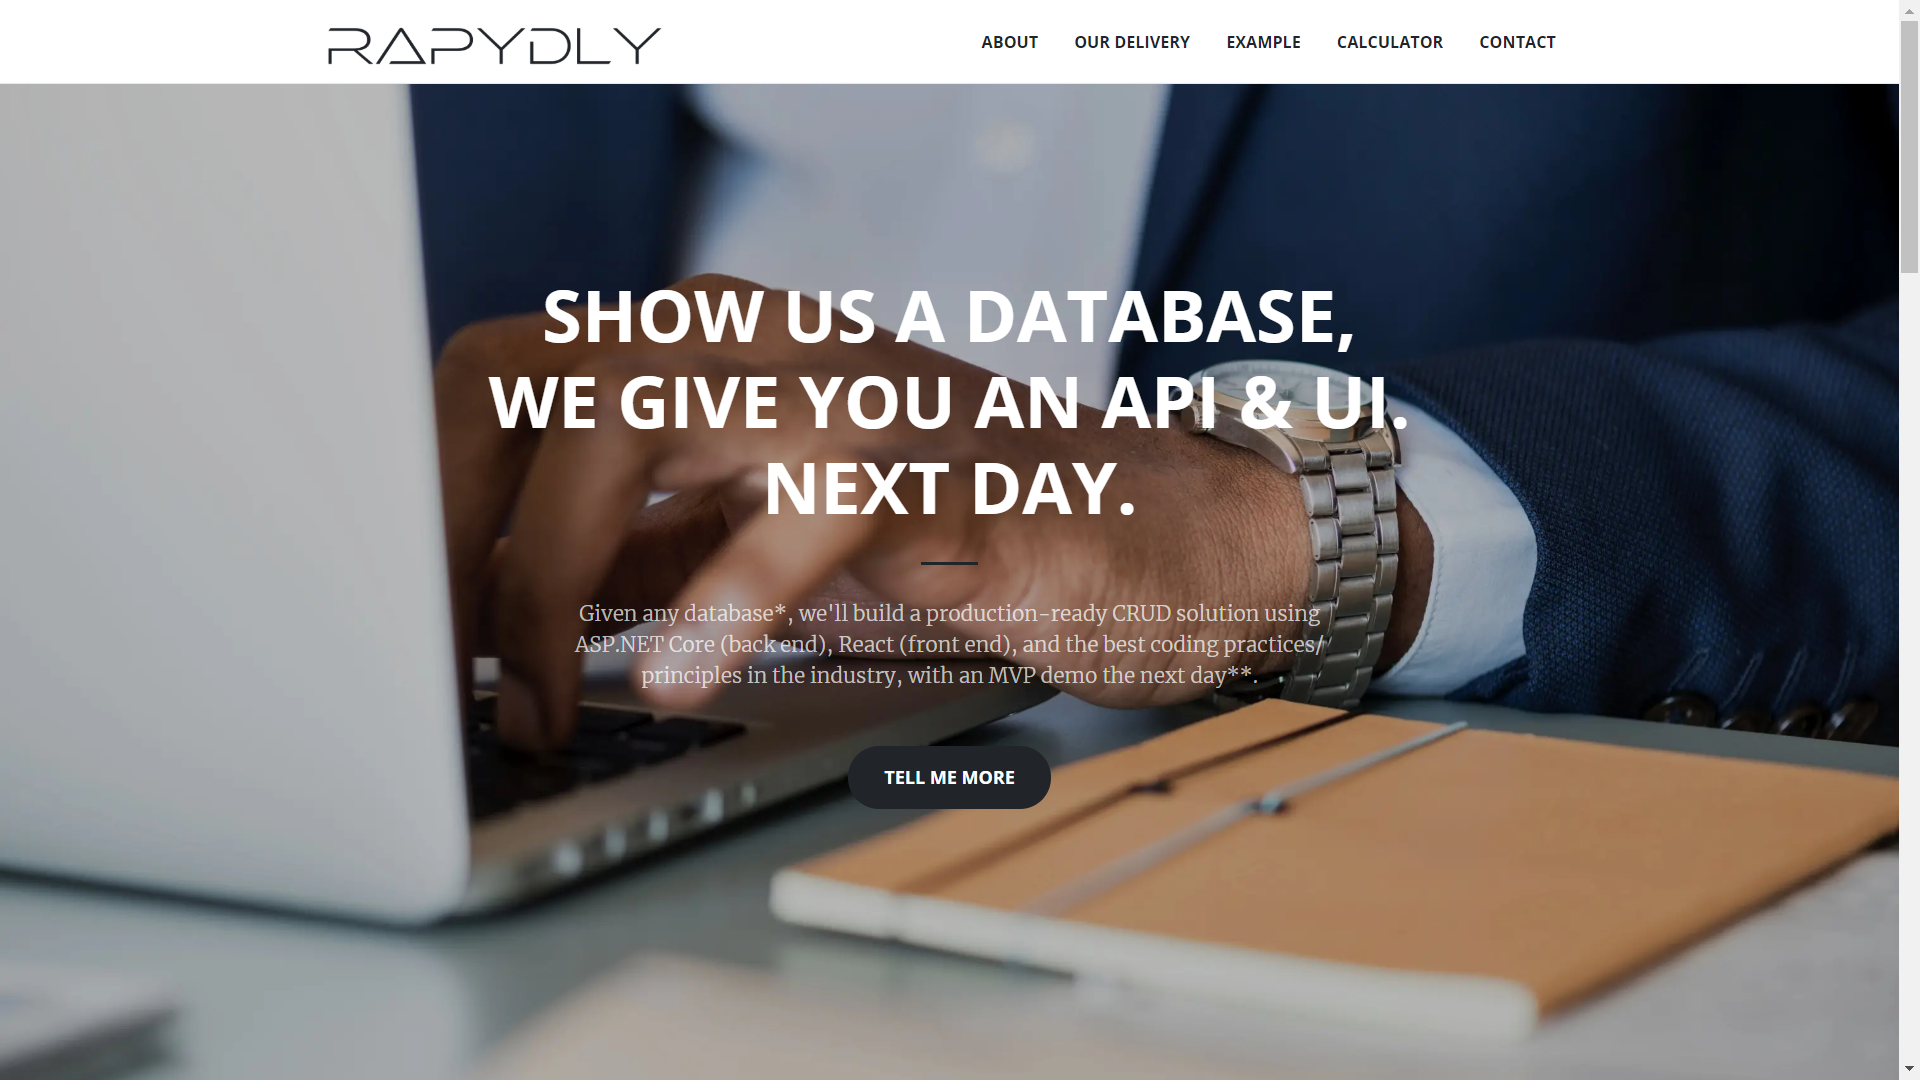
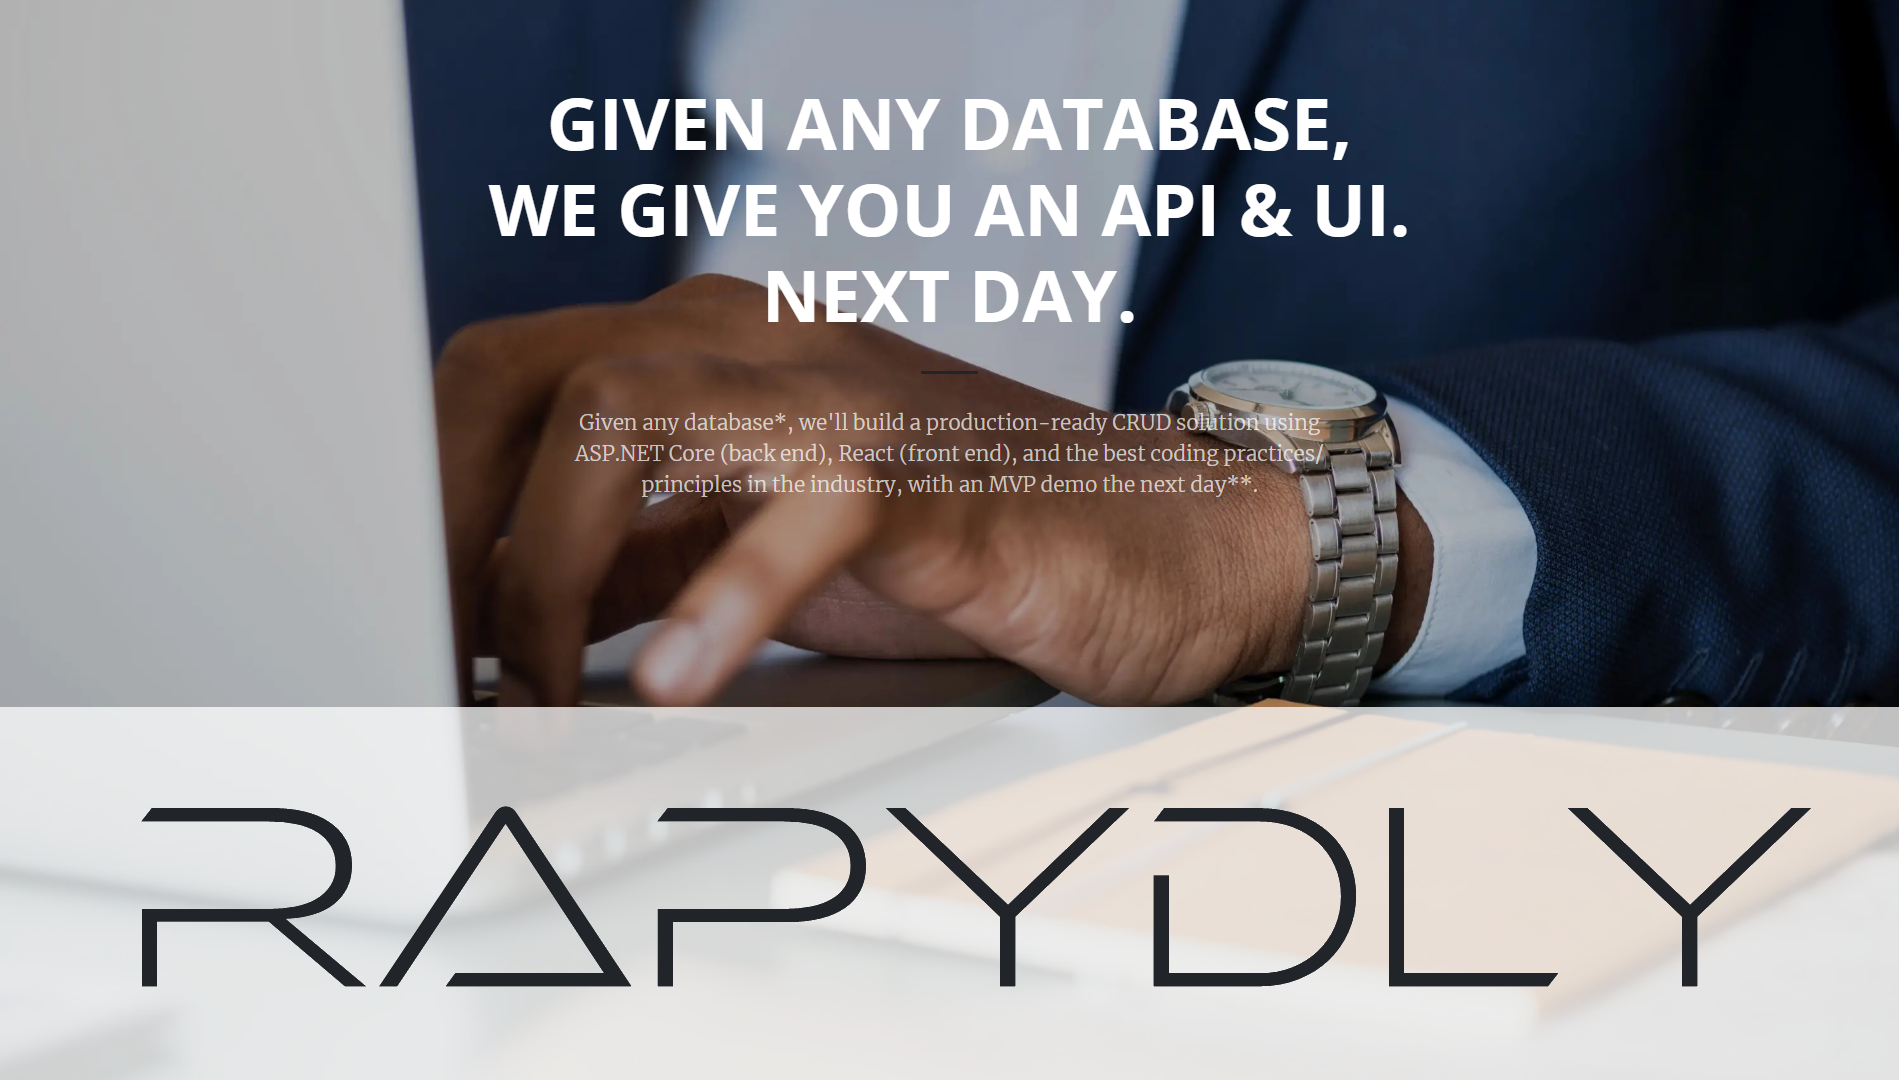
Updated site thumbnail

diff --git a/index.html b/index.html
@@ -25,8 +25,8 @@
 
     <meta property="og:site_name" content="Rapydly"/>
     <meta property="og:title" content="Build software rapidly, with Rapydly. Delivering bespoke, next day MVPs"/>
-    <meta property="og:description" content="We develop custom RESTful APIs and CRUD UIs using .NET (dotnet) Core and REACT JS and in most cases, can demo your product the very next day."/>
-    <meta property="og:image" content="/img/home.png">
+    <meta property="og:description" content="Specialists in developing custom RESTful APIs and CRUD UIs using .NET (dotnet) Core and REACT JS and in most cases, can demo your product the very next day."/>
+    <meta property="og:image" content="img/home.png">
     <meta property="og:url" content="https://rapydly.com/">
     <meta name="description" content="We develop custom RESTful APIs and CRUD UIs using .NET (dotnet) Core and REACT JS and in most cases, can demo your product the very next day.."/>
 
@@ -70,7 +70,7 @@
         <div class="row">
           <div class="col-lg-10 mx-auto">
             <h1 class="text-uppercase">
-              <strong>show us a database,</strong><br>
+              <strong>Given any database,</strong><br>
               <strong>We give you an api & ui.</strong><br>
               <strong>Next day.</strong>
             </h1>
